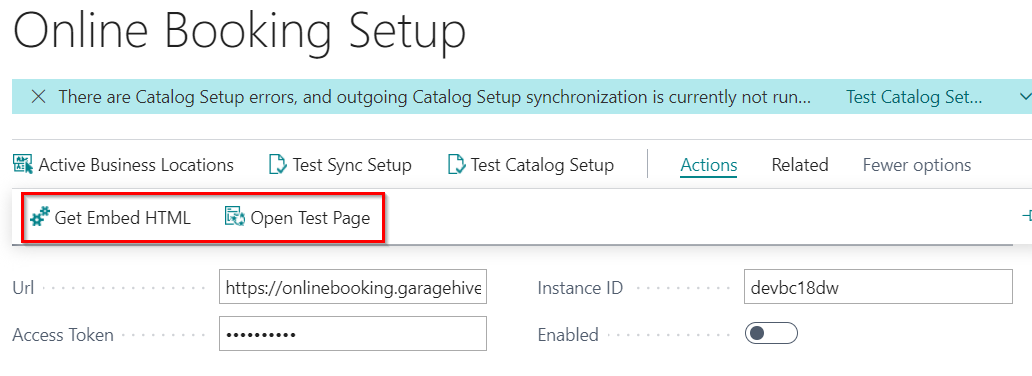
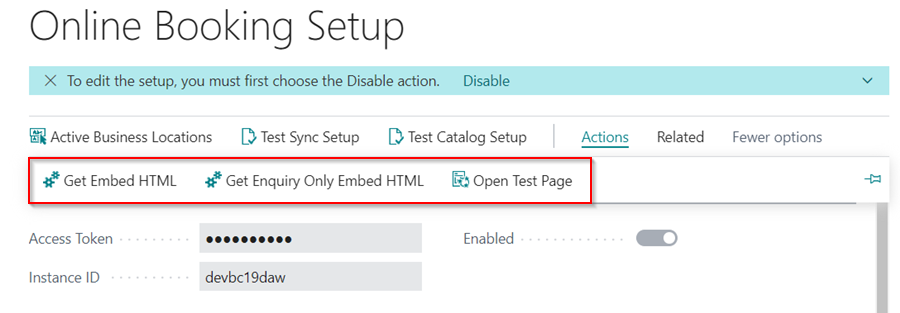
online booking testing

diff --git a/docs/garagehive-onlinebooking-testing.md b/docs/garagehive-onlinebooking-testing.md
@@ -16,7 +16,7 @@ We're almost there, I promise. In the **Online Booking Setup** page:
 
     {% include tip.html title="Note" text="Warnings will not prevent the system from functioning, but Errors will. It is best practise to have no errors or warnings." %}
 
-4. Once all errors have been resolved, select **Actions** from the actions bar to obtain the **Embed Script** and/or use the **Open Test Page** to verify your setup. Please wait 5 minutes after the errors have been cleared before testing to give the system time to validate the setup. 
+4. Once all errors have been resolved, select **Actions** from the actions bar to obtain the **Embed Script** (you can also get an embed script specific for online enquiry) and/or use the **Open Test Page** to verify your setup. Please wait 5 minutes after the errors have been cleared before testing to give the system time to validate the setup. 
 
     ![](media/garagehive-onlinebooking-testing3.png)
 
